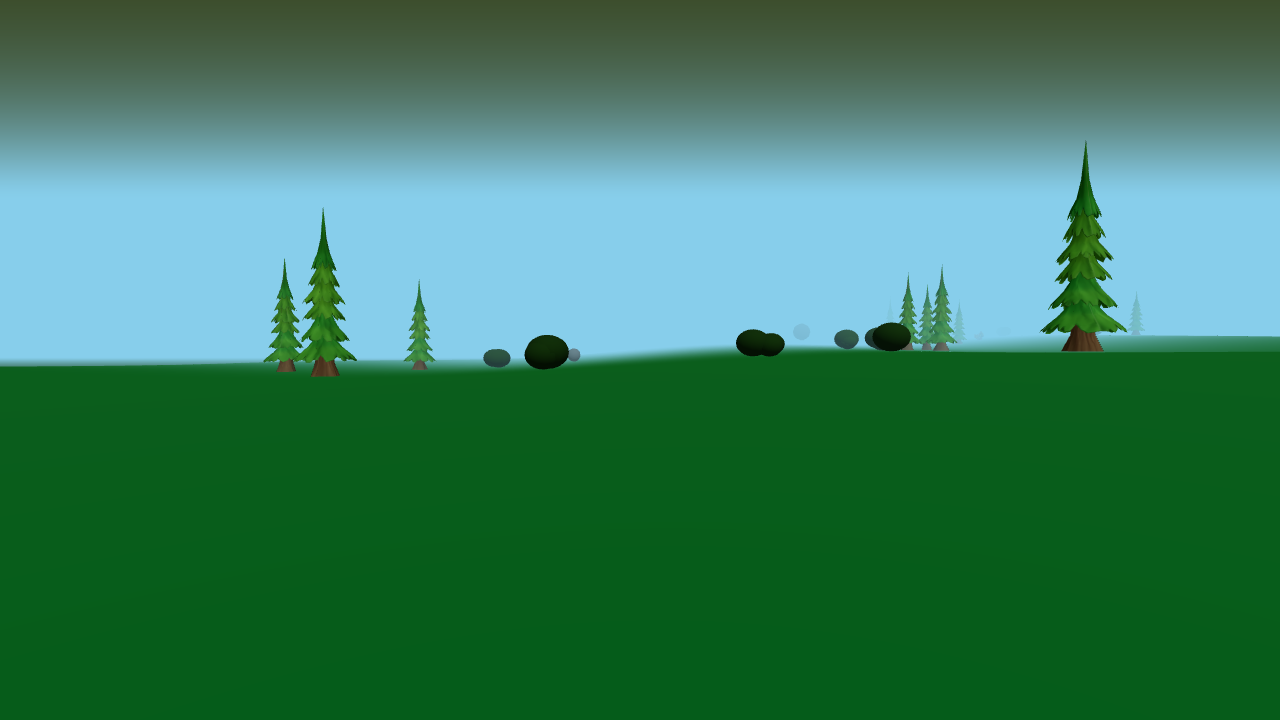
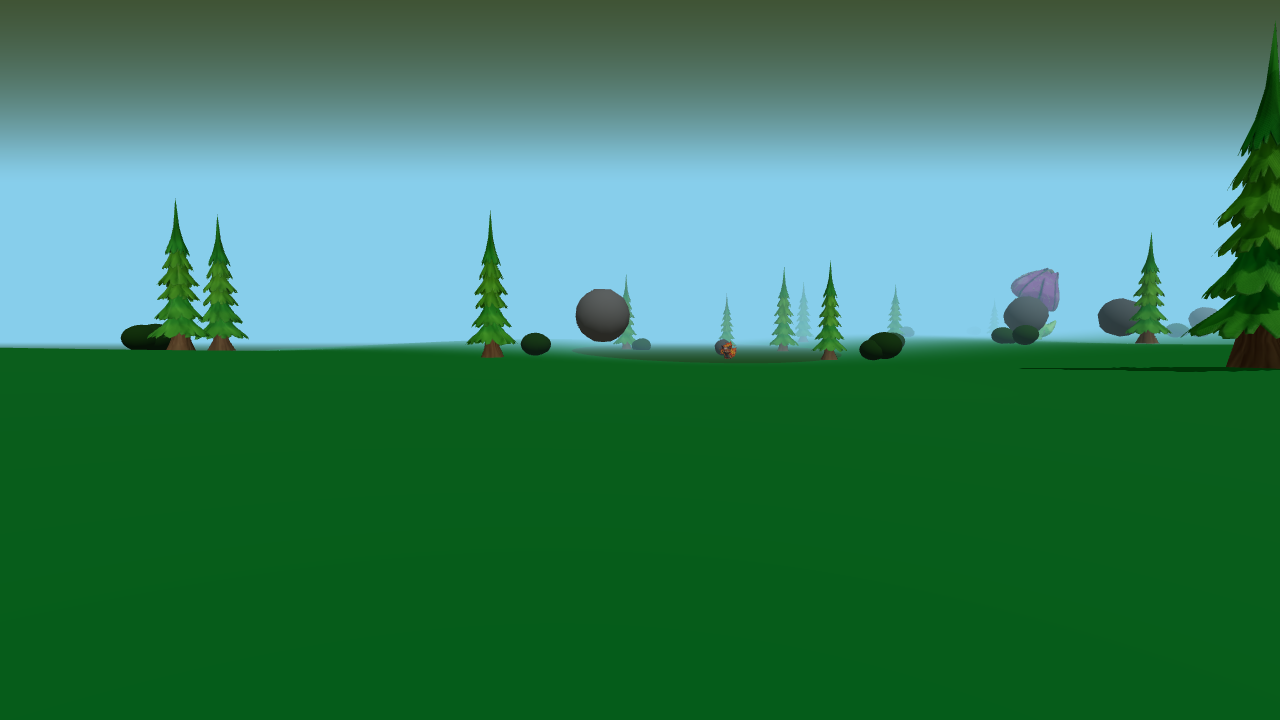
Make village map 4x larger and fix pine tree 3D model loading in wild zone

Changed region(s): [[0.0, 0.0611, 1.0, 0.5194]]

diff --git a/rpg-game.js b/rpg-game.js
@@ -351,10 +351,11 @@ export class RPGGame {
         // Flat plain - no height variation
         const villageHeightFn = () => 0;
         this.setGroundHeightFunction(villageHeightFn);
-        this.mapBounds = { minX: -48, maxX: 48, minZ: -48, maxZ: 48 };
+        // 4x larger map bounds (from -48,48 to -192,192)
+        this.mapBounds = { minX: -192, maxX: 192, minZ: -192, maxZ: 192 };
 
-        // Simple flat ground plane - just a plain (pianura)
-        const groundGeometry = new THREE.PlaneGeometry(100, 100, 1, 1);
+        // Simple flat ground plane - just a plain (pianura) - 4x larger (400x400)
+        const groundGeometry = new THREE.PlaneGeometry(400, 400, 1, 1);
         
         const groundMaterial = new THREE.MeshStandardMaterial({
             color: 0x4a8c4a,
@@ -369,7 +370,7 @@ export class RPGGame {
 
         // Village is now just a flat plain - no buildings, paths, houses, NPCs, trees, or fences
 
-        console.log('✓ Villaggio creato (pianura)');
+        console.log('✓ Villaggio creato (pianura 4x)');
     }
 
     async createPokeCenterInterior(options = {}) {
@@ -973,8 +974,13 @@ export class RPGGame {
         // Load the pine tree model once
         let treeModel = null;
         try {
+            console.log('Loading pine tree model from: modelli_3D/environment/stylized_pine_tree_tree.glb');
             const gltf = await this.loadGLTF('modelli_3D/environment/stylized_pine_tree_tree.glb');
             treeModel = gltf.scene;
+            
+            if (!treeModel) {
+                throw new Error('Model scene is null');
+            }
             
             // Calculate the bounding box to properly position the tree on the ground
             treeModel.updateMatrixWorld(true);
@@ -995,10 +1001,13 @@ export class RPGGame {
             // Pre-calculate base ground offset (will be multiplied by final scale later)
             treeModel.userData.baseGroundOffset = -modelBottomY;
             
-            console.log(`✓ Pine tree model loaded (original height: ${modelHeight.toFixed(2)}, autoScale: ${autoScale.toFixed(3)})`);
+            console.log(`✓ Pine tree 3D model loaded successfully (original height: ${modelHeight.toFixed(2)}, autoScale: ${autoScale.toFixed(3)})`);
         } catch (error) {
-            console.warn('Could not load pine tree model, using procedural trees:', error.message || error);
+            console.error('✗ Failed to load pine tree model, using procedural trees:', error.message || error);
+            treeModel = null;
         }
+        
+        console.log(`Creating ${count} trees using ${treeModel ? '3D pine model' : 'procedural fallback'}`);
 
         for (let i = 0; i < count; i++) {
             let x;
